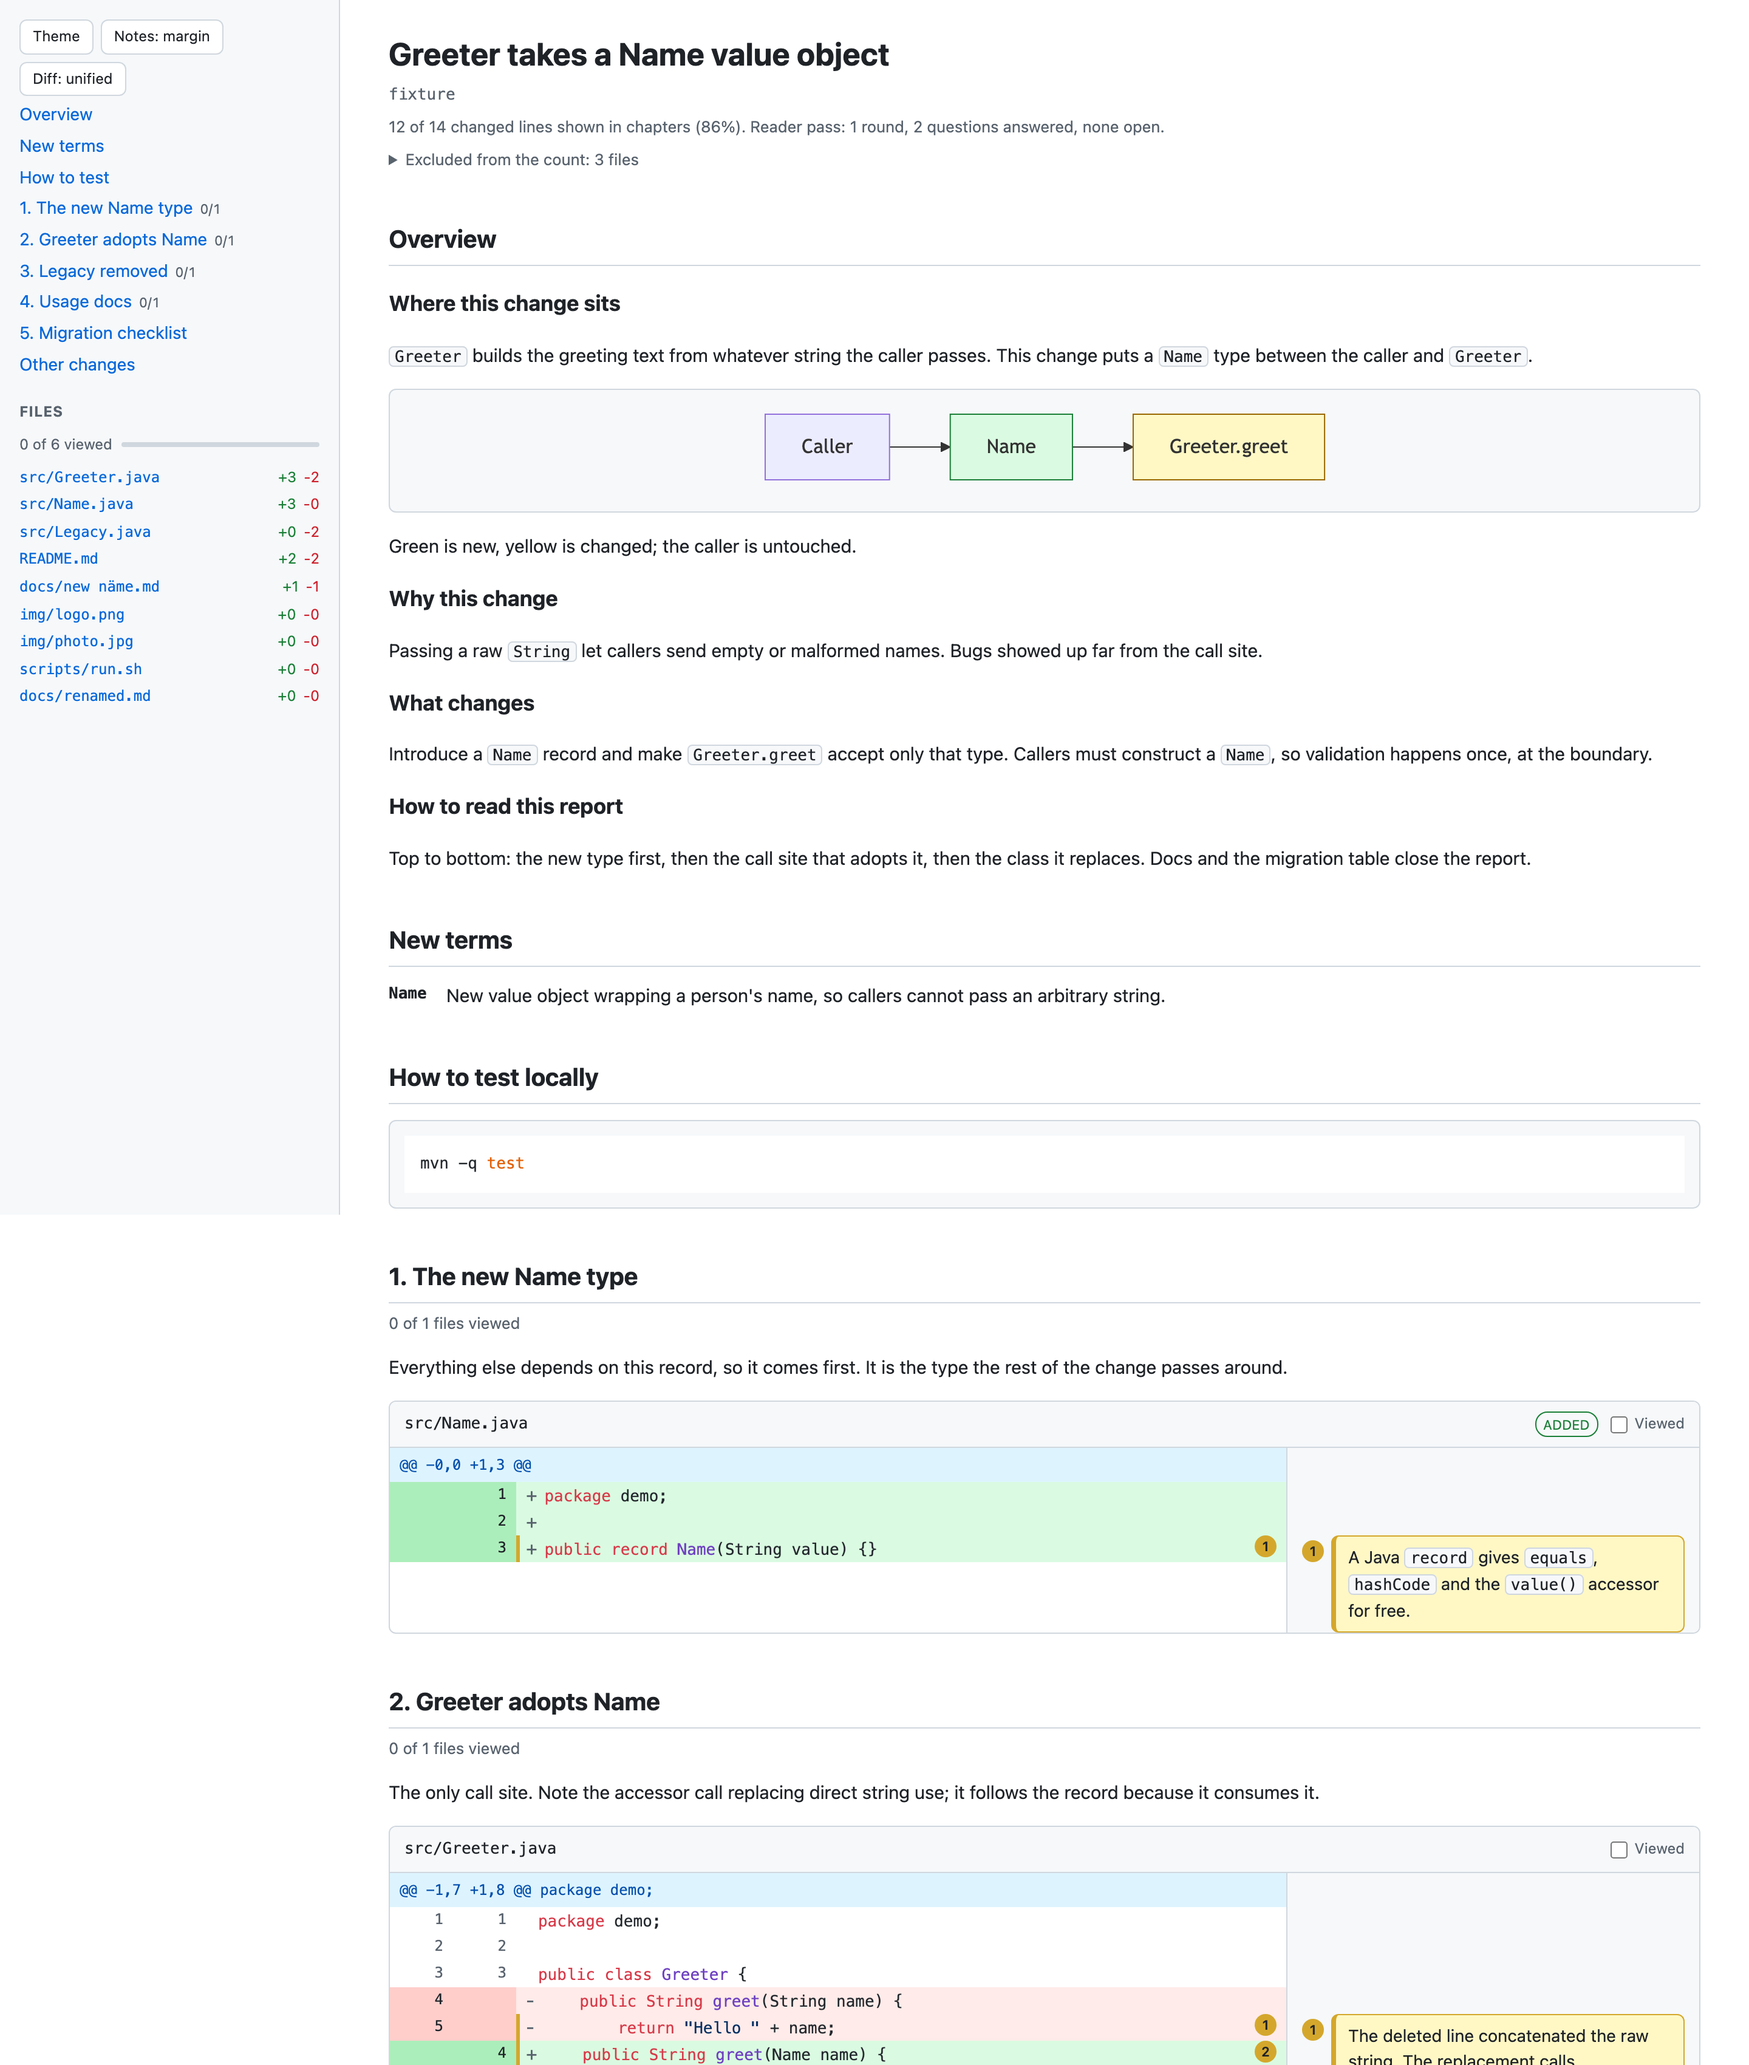
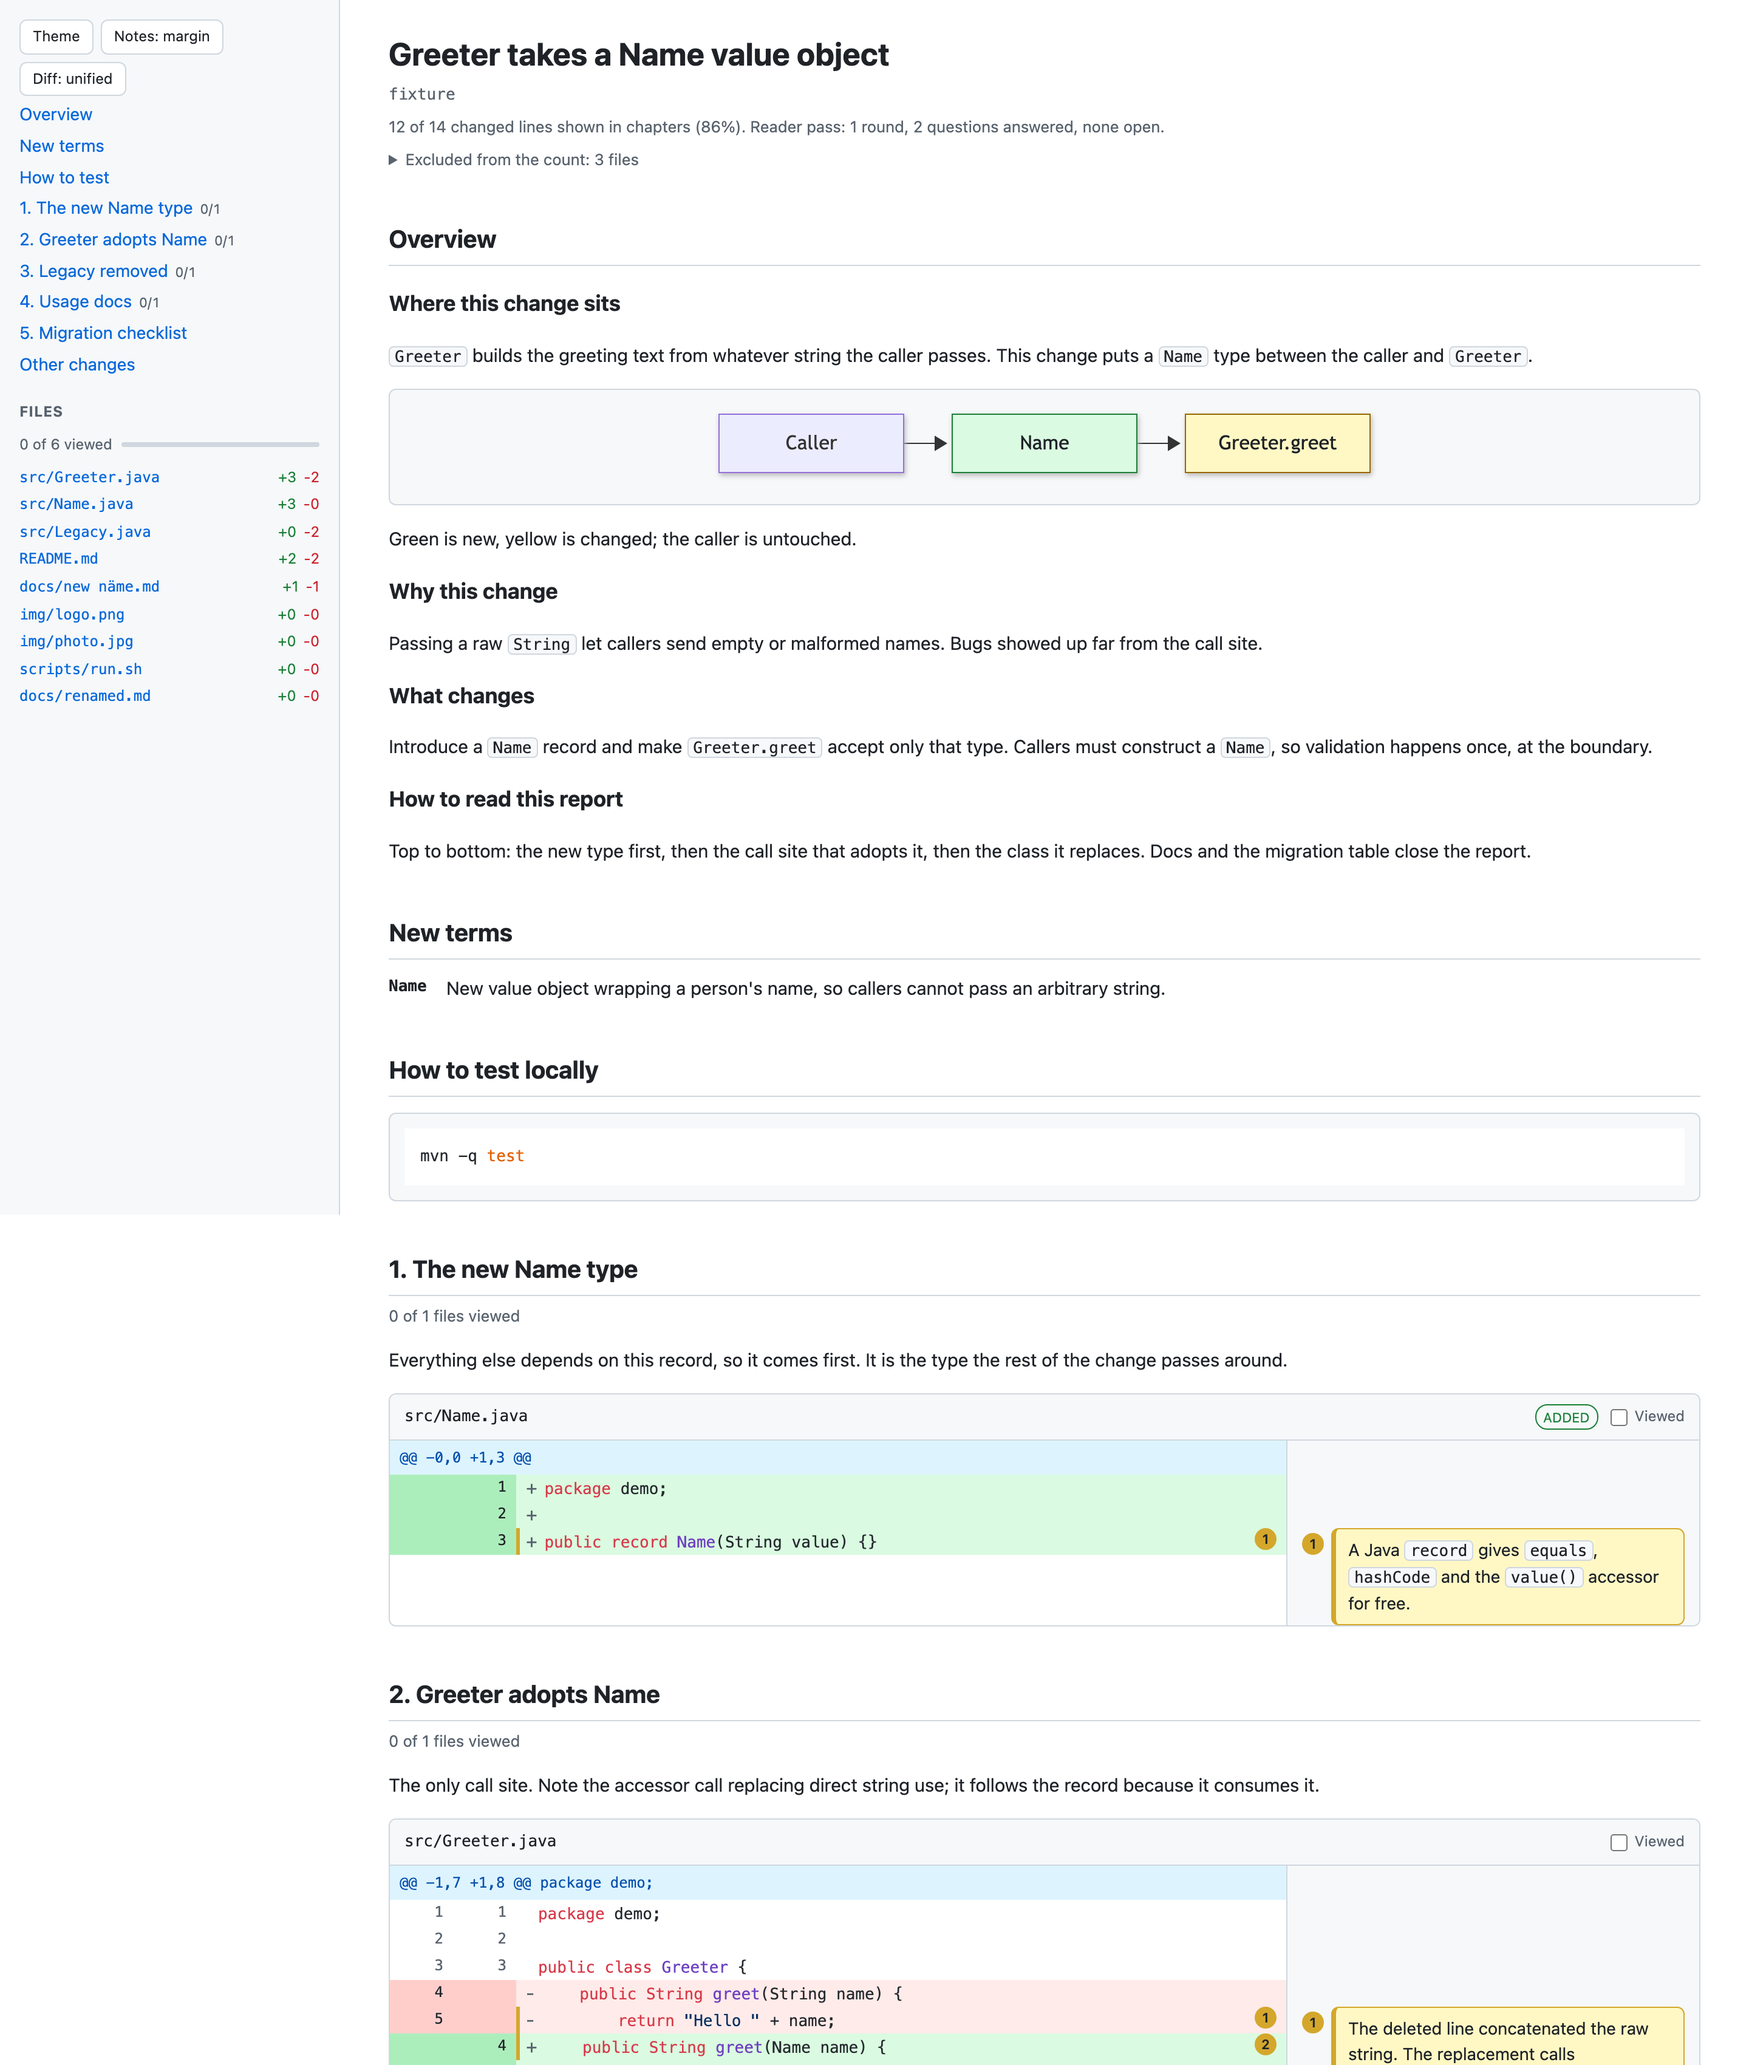
fix(page): render diagrams one at a time, keep marked text dark (#2)
Several Mermaid diagrams on one page rendered at the same time and drew
into each other's boxes. Renders now go through one queue, one diagram at
a time; a theme switch starts a new generation and skips stale work.

Boxes marked new or changed keep light fills in the dark theme, so their
text is forced dark.

E2E: a five-diagram report checks each box holds its own diagram, also
after quick theme switches, and that marked-node text stays dark.
README screenshots re-taken for Mermaid 12.

diff --git a/skills/review-report/reference/example-report.html b/skills/review-report/reference/example-report.html
@@ -61,6 +61,10 @@ h2 { font-size: 20px; border-bottom: 1px solid var(--border); padding-bottom: 6p
 .intro { margin-bottom: 16px; }
 .diagram { margin: 16px 0; }
 .diagram pre.mermaid { background: var(--surface); text-align: center; }
+/* Nodes marked `new` or `changed` keep their light green and yellow fills in both themes, so their
+   text stays dark. Mermaid's dark theme would make it light and almost invisible on those fills. */
+pre.mermaid g.node.new .nodeLabel, pre.mermaid g.node.changed .nodeLabel { color: #1f2328 !important; }
+pre.mermaid g.node.new text, pre.mermaid g.node.changed text { fill: #1f2328 !important; }
 figcaption { color: var(--muted); font-size: 14px; margin-top: 6px; }
 
 .file { border: 1px solid var(--border); border-radius: 6px; margin: 16px 0; overflow: clip; }
@@ -334,20 +338,30 @@ tr.hint-row.pinned .callout { border-left-width: 4px; }
   });
 
   // Mermaid re-renders from the saved source so a theme change repaints diagrams.
-  // Each diagram gets its own run: a syntax error in one leaves the others rendered
-  // and only the broken one falls back to its source text.
+  // Mermaid cannot render two diagrams at once: concurrent runs draw into each other's
+  // boxes and leave others empty. So all renders go through one queue, one diagram at a
+  // time. A theme change starts a new generation; queued work from the old one is skipped.
+  // Each diagram gets its own run: a syntax error in one leaves the others rendered and
+  // only the broken one falls back to its source text.
+  var diagramQueue = Promise.resolve();
+  var diagramGeneration = 0;
   function renderDiagrams(theme) {
     if (typeof mermaid === 'undefined') return;
     var nodes = document.querySelectorAll('pre.mermaid');
     if (!nodes.length) return;
-    try { mermaid.initialize({ startOnLoad: false, theme: theme === 'dark' ? 'dark' : 'default' }); } catch (e) { return; }
+    var generation = ++diagramGeneration;
+    var unusable = false;
+    function current() { return generation === diagramGeneration; }
+    diagramQueue = diagramQueue.then(function () {
+      if (current()) mermaid.initialize({ startOnLoad: false, theme: theme === 'dark' ? 'dark' : 'default' });
+    }).catch(function () { unusable = true; }); // every diagram keeps what it shows now
     nodes.forEach(function (n) {
       function restore() { n.textContent = n.dataset.source; n.removeAttribute('data-processed'); }
-      restore();
-      try {
-        var p = mermaid.run({ nodes: [n] });
-        if (p && p.catch) p.catch(restore); // a syntax error rejects asynchronously
-      } catch (e) { restore(); }
+      diagramQueue = diagramQueue.then(function () {
+        if (!current() || unusable) return;
+        restore();
+        return mermaid.run({ nodes: [n] });
+      }).catch(restore); // a syntax error rejects; the queue moves on to the next diagram
     });
   }
 

diff --git a/skills/review-report/template/report.js b/skills/review-report/template/report.js
@@ -38,20 +38,30 @@
   });
 
   // Mermaid re-renders from the saved source so a theme change repaints diagrams.
-  // Each diagram gets its own run: a syntax error in one leaves the others rendered
-  // and only the broken one falls back to its source text.
+  // Mermaid cannot render two diagrams at once: concurrent runs draw into each other's
+  // boxes and leave others empty. So all renders go through one queue, one diagram at a
+  // time. A theme change starts a new generation; queued work from the old one is skipped.
+  // Each diagram gets its own run: a syntax error in one leaves the others rendered and
+  // only the broken one falls back to its source text.
+  var diagramQueue = Promise.resolve();
+  var diagramGeneration = 0;
   function renderDiagrams(theme) {
     if (typeof mermaid === 'undefined') return;
     var nodes = document.querySelectorAll('pre.mermaid');
     if (!nodes.length) return;
-    try { mermaid.initialize({ startOnLoad: false, theme: theme === 'dark' ? 'dark' : 'default' }); } catch (e) { return; }
+    var generation = ++diagramGeneration;
+    var unusable = false;
+    function current() { return generation === diagramGeneration; }
+    diagramQueue = diagramQueue.then(function () {
+      if (current()) mermaid.initialize({ startOnLoad: false, theme: theme === 'dark' ? 'dark' : 'default' });
+    }).catch(function () { unusable = true; }); // every diagram keeps what it shows now
     nodes.forEach(function (n) {
       function restore() { n.textContent = n.dataset.source; n.removeAttribute('data-processed'); }
-      restore();
-      try {
-        var p = mermaid.run({ nodes: [n] });
-        if (p && p.catch) p.catch(restore); // a syntax error rejects asynchronously
-      } catch (e) { restore(); }
+      diagramQueue = diagramQueue.then(function () {
+        if (!current() || unusable) return;
+        restore();
+        return mermaid.run({ nodes: [n] });
+      }).catch(restore); // a syntax error rejects; the queue moves on to the next diagram
     });
   }
 

diff --git a/skills/review-report/template/report.css b/skills/review-report/template/report.css
@@ -49,6 +49,10 @@ h2 { font-size: 20px; border-bottom: 1px solid var(--border); padding-bottom: 6p
 .intro { margin-bottom: 16px; }
 .diagram { margin: 16px 0; }
 .diagram pre.mermaid { background: var(--surface); text-align: center; }
+/* Nodes marked `new` or `changed` keep their light green and yellow fills in both themes, so their
+   text stays dark. Mermaid's dark theme would make it light and almost invisible on those fills. */
+pre.mermaid g.node.new .nodeLabel, pre.mermaid g.node.changed .nodeLabel { color: #1f2328 !important; }
+pre.mermaid g.node.new text, pre.mermaid g.node.changed text { fill: #1f2328 !important; }
 figcaption { color: var(--muted); font-size: 14px; margin-top: 6px; }
 
 .file { border: 1px solid var(--border); border-radius: 6px; margin: 16px 0; overflow: clip; }

diff --git a/CHANGELOG.md b/CHANGELOG.md
@@ -1,5 +1,16 @@
 # Changelog
 
+## 0.1.1
+
+**Fixes**
+- Pages with several diagrams drew them into each other's boxes or left some empty. Diagrams now render one
+  at a time, and a theme switch mid-render no longer mixes old and new drawings.
+- In the dark theme, text on boxes marked new or changed was light on a light fill and hard to read. It now
+  stays dark.
+
+**Changes**
+- Mermaid 12.1.0 (from 11.17.2). Flowchart, state and entity diagrams draw right-angled edges.
+
 ## 0.1.0
 
 First public release.
